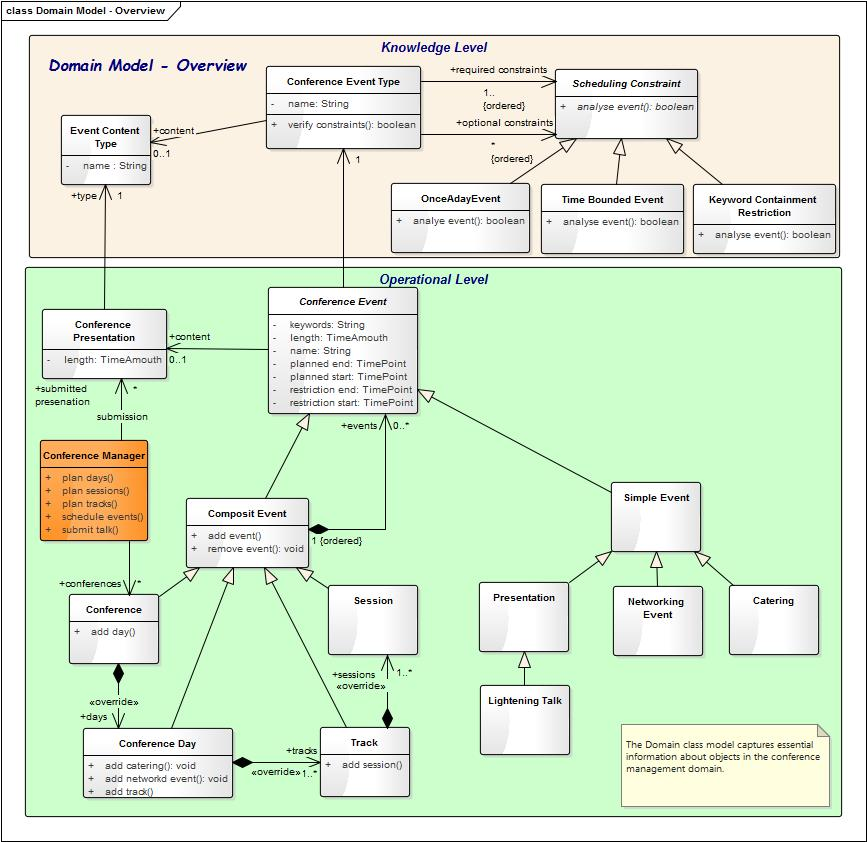
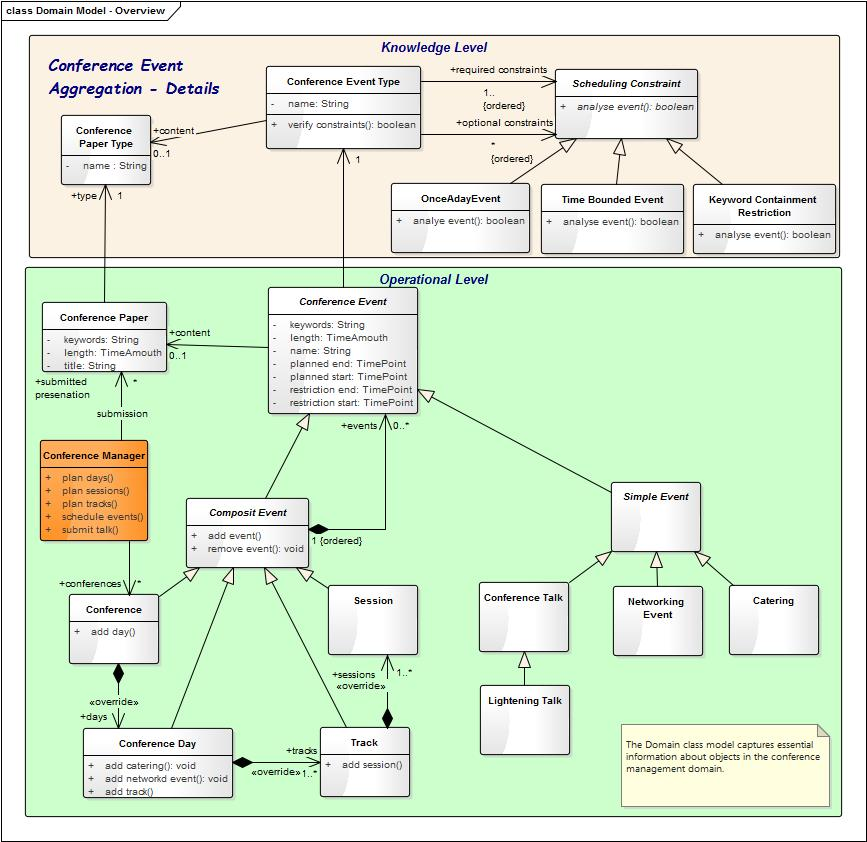
Implement and test conference paper type.

diff --git a/Implementation/domain/src/main/java/com/agilerenovation/conference/talk/integration/ConferenceTalkRepository.java b/Implementation/domain/src/main/java/com/agilerenovation/conference/talk/integration/ConferenceTalkRepository.java
@@ -13,12 +13,12 @@ import org.w3c.dom.Node;
 import org.w3c.dom.NodeList;
 
 import com.agilerenovation.conference.resource.integration.Resource;
-import com.agilerenovation.conference.talk.domain.ConferenceTalk;
+import com.agilerenovation.conference.talk.domain.ConferencePaper;
 import com.google.common.collect.Sets;
 
 public class ConferenceTalkRepository {
    public static final String XPATH_SUBMISSIONS = "/submissions/submission";
-   private Set<ConferenceTalk> talks = Sets.newHashSet();
+   private Set<ConferencePaper> talks = Sets.newHashSet();
 
    // public accessors and mutators
    public void importTalks( final String resourceSpecifier ) {
@@ -31,7 +31,7 @@ public class ConferenceTalkRepository {
    }
 
    // properties
-   public Set<ConferenceTalk> getAll() {
+   public Set<ConferencePaper> getAll() {
       return talks;
    }
 
@@ -42,7 +42,7 @@ public class ConferenceTalkRepository {
             Element element = (Element) submissionNodes.item( i );
             String title = element.getElementsByTagName( "title" ).item( 0 ).getTextContent();
             String length = element.getElementsByTagName( "length" ).item( 0 ).getTextContent();
-            ConferenceTalk talk = ConferenceTalk.create( title, length );
+            ConferencePaper talk = ConferencePaper.create( title, length );
             talks.add( talk );
          }
       }

diff --git a/Implementation/domain/src/main/java/com/agilerenovation/conference/manager/domain/ConferenceManager.java b/Implementation/domain/src/main/java/com/agilerenovation/conference/manager/domain/ConferenceManager.java
@@ -3,6 +3,9 @@ package com.agilerenovation.conference.manager.domain;
 import com.agilerenovation.conference.eventtype.domain.ConferenceEventTypes;
 import com.agilerenovation.conference.eventtype.integration.ConferenceEventTypeFactory;
 import com.agilerenovation.conference.eventtype.integration.ConferenceEventTypeRepository;
+import com.agilerenovation.conference.papertype.domain.ConferencePaperTypes;
+import com.agilerenovation.conference.papertype.integration.ConferencePaperTypeFactory;
+import com.agilerenovation.conference.papertype.integration.ConferencePaperTypeRepository;
 
 public class ConferenceManager {
    private static ConferenceManager soleInstance;
@@ -26,6 +29,15 @@ public class ConferenceManager {
       
       for( ConferenceEventTypes eventType : ConferenceEventTypes.values() ){
          eventTypeRepository.add( eventTypeFactory.create( eventType ));
+      }
+   }
+
+   public void setUpPaperTypes() {
+      ConferencePaperTypeRepository paperTypeRepository = ConferencePaperTypeRepository.getInstance();
+      ConferencePaperTypeFactory paperTypeFactory = new ConferencePaperTypeFactory();
+
+      for( ConferencePaperTypes paperType : ConferencePaperTypes.values() ){
+         paperTypeRepository.add( paperTypeFactory.create( paperType ));
       }
    }
    

diff --git a/Implementation/acceptance-tests/src/main/java/com/agilerenovation/conference/fitnesse/domain/RetrievePaperTypes.java b/Implementation/acceptance-tests/src/main/java/com/agilerenovation/conference/fitnesse/domain/RetrievePaperTypes.java
@@ -1,0 +1,31 @@
+package com.agilerenovation.conference.fitnesse.domain;
+
+import static util.ListUtility.list;
+
+import java.util.List;
+import java.util.Set;
+
+import com.agilerenovation.conference.papertype.domain.ConferencePaperType;
+import com.agilerenovation.conference.papertype.integration.ConferencePaperTypeRepository;
+import com.google.common.collect.Lists;
+
+public class RetrievePaperTypes {
+
+   public void table( List<List<String>> table ) {
+      // optional function
+   }
+
+   @SuppressWarnings( "unchecked" )
+   public List<Object> query() {
+      List<Object> resultList = Lists.newArrayList();
+      Set<ConferencePaperType> paperTypes = ConferencePaperTypeRepository.getInstance().findAll();
+      
+      for( ConferencePaperType conferencePaperType : paperTypes ){
+         List<String> nameValue = list( "name", conferencePaperType.getName());
+         List<String> descriptionValue = list( "description", conferencePaperType.getDescription());
+         
+         resultList.add( list( nameValue, descriptionValue ));
+      }
+      return resultList;
+   }
+}

diff --git a/Implementation/domain/src/main/java/com/agilerenovation/conference/papertype/integration/ConferencePaperTypeRepository.java b/Implementation/domain/src/main/java/com/agilerenovation/conference/papertype/integration/ConferencePaperTypeRepository.java
@@ -1,0 +1,35 @@
+package com.agilerenovation.conference.papertype.integration;
+
+import java.util.Set;
+
+import com.agilerenovation.conference.papertype.domain.ConferencePaperType;
+import com.google.common.collect.ImmutableSet;
+import com.google.common.collect.Sets;
+
+
+public class ConferencePaperTypeRepository {
+   private static ConferencePaperTypeRepository soleInstance;
+   private static Set<ConferencePaperType> paperTypes = Sets.newHashSet();
+   
+   
+   //Constructors and factory methods
+   private ConferencePaperTypeRepository(){
+   }
+   
+   public static ConferencePaperTypeRepository getInstance() {
+      if( soleInstance == null ){
+         soleInstance = new ConferencePaperTypeRepository();
+      }
+      
+      return soleInstance;
+   }
+
+   //Public accessors and mutators
+   public void add( final ConferencePaperType paperType ){
+      paperTypes.add( paperType );
+   }
+   
+   public Set<ConferencePaperType> findAll(){
+      return ImmutableSet.copyOf( paperTypes );
+   }
+}

diff --git a/Implementation/domain/src/main/java/com/agilerenovation/conference/talk/domain/ConferencePaper.java b/Implementation/domain/src/main/java/com/agilerenovation/conference/talk/domain/ConferencePaper.java
@@ -1,22 +1,22 @@
 package com.agilerenovation.conference.talk.domain;
 
-public class ConferenceTalk {
+public class ConferencePaper {
    private Integer length;
    private String title;
    
    //Constructors and factory methods
-   public ConferenceTalk( final String title, final Integer length ){
+   public ConferencePaper( final String title, final Integer length ){
       this.title = title;
       this.length = length;
    }
    
-   public static ConferenceTalk create( String title, String length ) {
-      ConferenceTalk talk = null;
+   public static ConferencePaper create( String title, String length ) {
+      ConferencePaper talk = null;
       
       if( length == null || length == "" ){
-         talk = new LighteningTalk( title );
+         talk = new ConferencePaper( title, 5 );
       }else{
-         talk = new ConferenceTalk( title, Integer.parseInt( length ));
+         talk = new ConferencePaper( title, Integer.parseInt( length ));
       }
       
       return talk;

diff --git a/Implementation/acceptance-tests/src/main/java/com/agilerenovation/conference/fitnesse/domain/ConfigureApplication.java b/Implementation/acceptance-tests/src/main/java/com/agilerenovation/conference/fitnesse/domain/ConfigureApplication.java
@@ -4,14 +4,27 @@ import com.agilerenovation.conference.manager.domain.ConferenceManager;
 
 public class ConfigureApplication {
    private ConferenceManager conferenceManager;
+   private static boolean isConfigured = false;
 
    //Constructors
    public ConfigureApplication(){
       conferenceManager = ConferenceManager.getInstance();
    }
    
-   public void setUpEventTypes(){
+   public void configure(){
+      if( !isConfigured ){
+         setUpEventTypes();
+         setUpPaperTypes();
+         isConfigured = true;
+      }
+   }
+   
+   private void setUpEventTypes(){
       conferenceManager.setUpEventTypes();
+   }
+   
+   private void setUpPaperTypes(){
+      conferenceManager.setUpPaperTypes();
    }
    
 }

diff --git a/Implementation/domain/src/main/java/com/agilerenovation/conference/papertype/domain/ConferencePaperTypes.java b/Implementation/domain/src/main/java/com/agilerenovation/conference/papertype/domain/ConferencePaperTypes.java
@@ -1,0 +1,19 @@
+package com.agilerenovation.conference.papertype.domain;
+
+public enum ConferencePaperTypes {
+   TALK( "Talk", "maximum 60 minute presentation" ),
+   LIGHTENING_TALK( "Lightening Talk", "5 minutes long presentaion" );
+   
+   private final String name;
+   private final String description;
+   
+   private ConferencePaperTypes( final String name, final String description ){
+      this.name = name;
+      this.description = description;
+   }
+   
+   //Properties
+   public String getDescription(){ return description; }
+   public String getName(){ return name; }
+   
+}

diff --git a/Implementation/acceptance-tests/src/test/java/com/agilerenovation/conference/fitnesse/domain/ConfiguredEventTypesTest.java b/Implementation/acceptance-tests/src/test/java/com/agilerenovation/conference/fitnesse/domain/ConfiguredEventTypesTest.java
@@ -11,11 +11,11 @@ import org.junit.Test;
 public class ConfiguredEventTypesTest {
    @Before public void beforeEachTests(){
       ConfigureApplication configureApplication = new ConfigureApplication();
-      configureApplication.setUpEventTypes();
+      configureApplication.configure();
    }
    
    @Test public void collectsDefinedEventTypes(){
-      ConfiguredEventTypes configuredEventTypes = new ConfiguredEventTypes();
+      RetrieveEventTypes configuredEventTypes = new RetrieveEventTypes();
       
       List<Object> rows = configuredEventTypes.query();
       

diff --git a/Implementation/acceptance-tests/src/main/java/com/agilerenovation/conference/fitnesse/domain/RetrieveEventTypes.java b/Implementation/acceptance-tests/src/main/java/com/agilerenovation/conference/fitnesse/domain/RetrieveEventTypes.java
@@ -9,12 +9,12 @@ import com.agilerenovation.conference.eventtype.domain.ConferenceEventType;
 import com.agilerenovation.conference.eventtype.integration.ConferenceEventTypeRepository;
 import com.google.common.collect.Lists;
 
-public class ConfiguredEventTypes {
+public class RetrieveEventTypes {
 
    public void table( List<List<String>> table ) {
       // optional function
    }
-
+   
    @SuppressWarnings( "unchecked" )
    public List<Object> query() {
       List<Object> resultList = Lists.newArrayList();

diff --git a/Implementation/domain/src/main/java/com/agilerenovation/conference/papertype/integration/ConferencePaperTypeFactory.java b/Implementation/domain/src/main/java/com/agilerenovation/conference/papertype/integration/ConferencePaperTypeFactory.java
@@ -1,0 +1,12 @@
+package com.agilerenovation.conference.papertype.integration;
+
+import com.agilerenovation.conference.papertype.domain.ConferencePaperType;
+import com.agilerenovation.conference.papertype.domain.ConferencePaperTypes;
+
+public class ConferencePaperTypeFactory {
+
+   public ConferencePaperType create( ConferencePaperTypes paperType ) {
+      return new ConferencePaperType( paperType.getName(), paperType.getDescription() );
+   }
+
+}

diff --git a/Implementation/domain/src/main/java/com/agilerenovation/conference/papertype/domain/ConferencePaperType.java b/Implementation/domain/src/main/java/com/agilerenovation/conference/papertype/domain/ConferencePaperType.java
@@ -1,0 +1,16 @@
+package com.agilerenovation.conference.papertype.domain;
+
+public class ConferencePaperType {
+   private String description;
+   private String name;
+
+   //Constructors
+   public ConferencePaperType( final String name, final String description ){
+      this.name = name;
+      this.description = description;
+   }
+   
+   public String getDescription(){ return description; }
+   public String getName() { return name; }
+
+}

diff --git a/Implementation/acceptance-tests/src/test/java/com/agilerenovation/conference/fitnesse/domain/ConfigureApplicationTest.java b/Implementation/acceptance-tests/src/test/java/com/agilerenovation/conference/fitnesse/domain/ConfigureApplicationTest.java
@@ -16,7 +16,7 @@ public class ConfigureApplicationTest {
    }
    
    @Test public void defineConferenceEventTypes(){
-      configureApplication.setUpEventTypes();
+      configureApplication.configure();
       
       ConferenceEventTypeRepository eventTypeRepository = ConferenceEventTypeRepository.getInstance();
       
